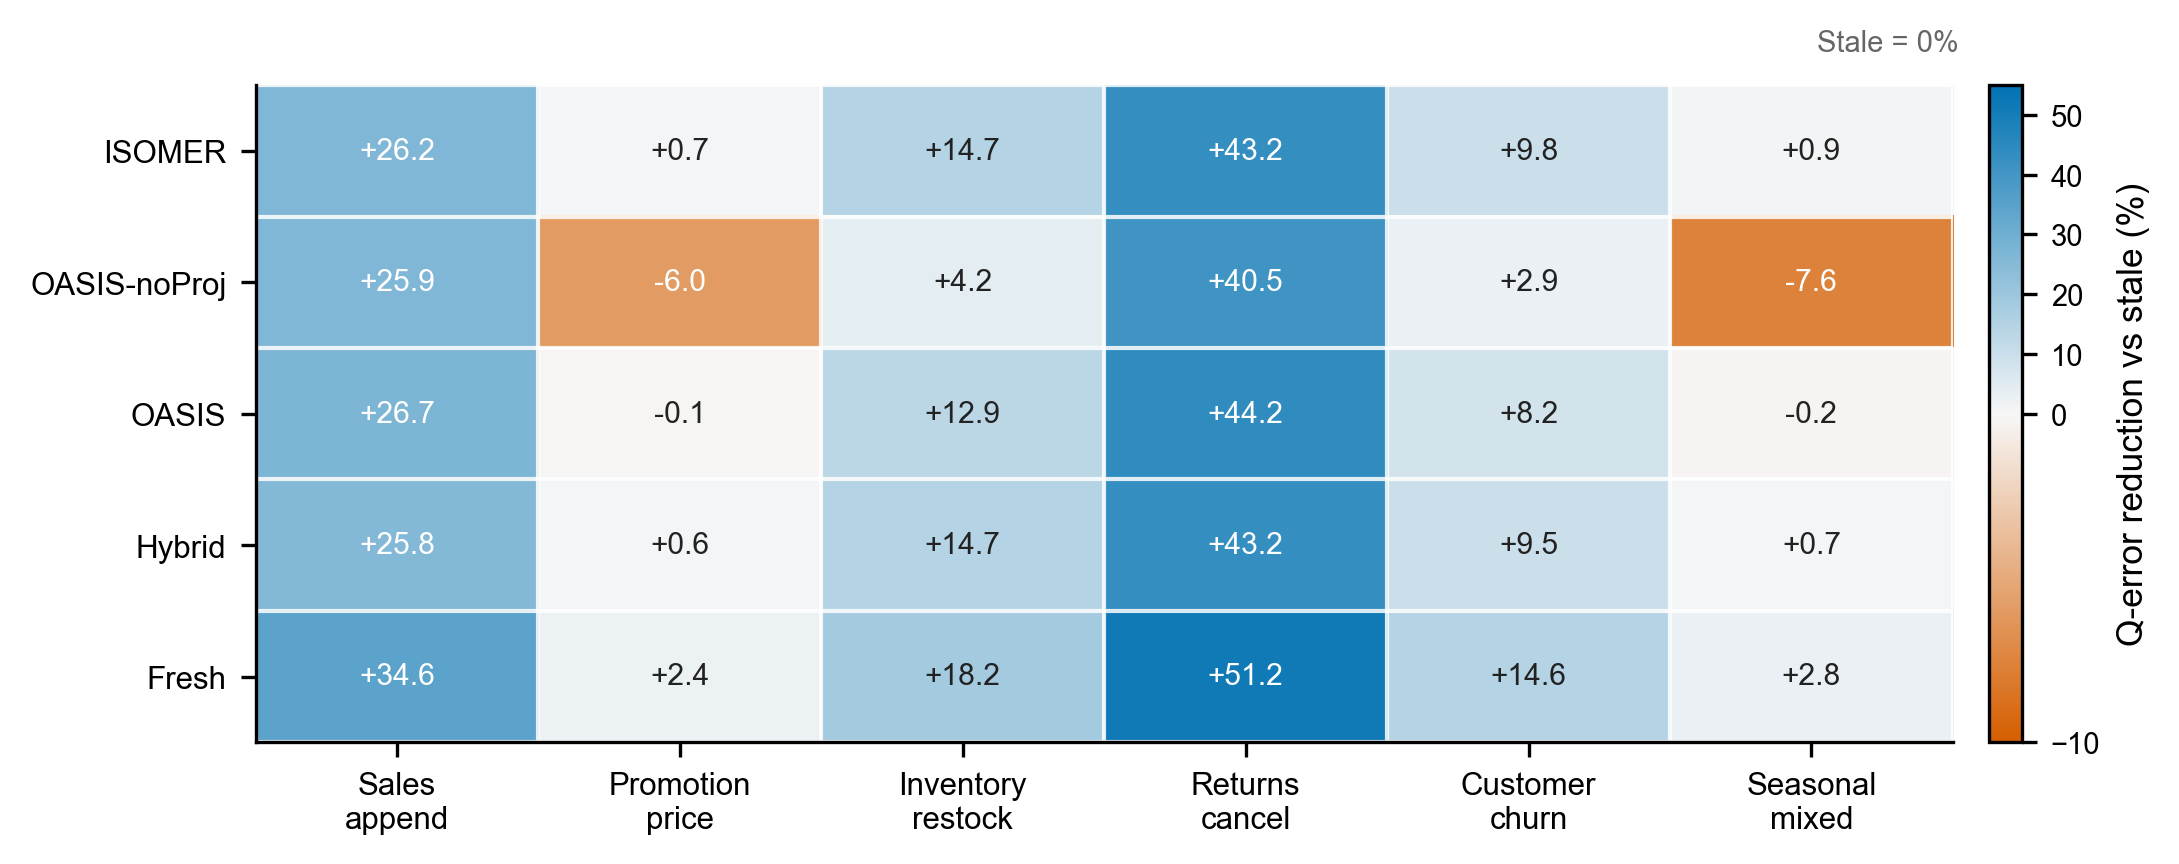
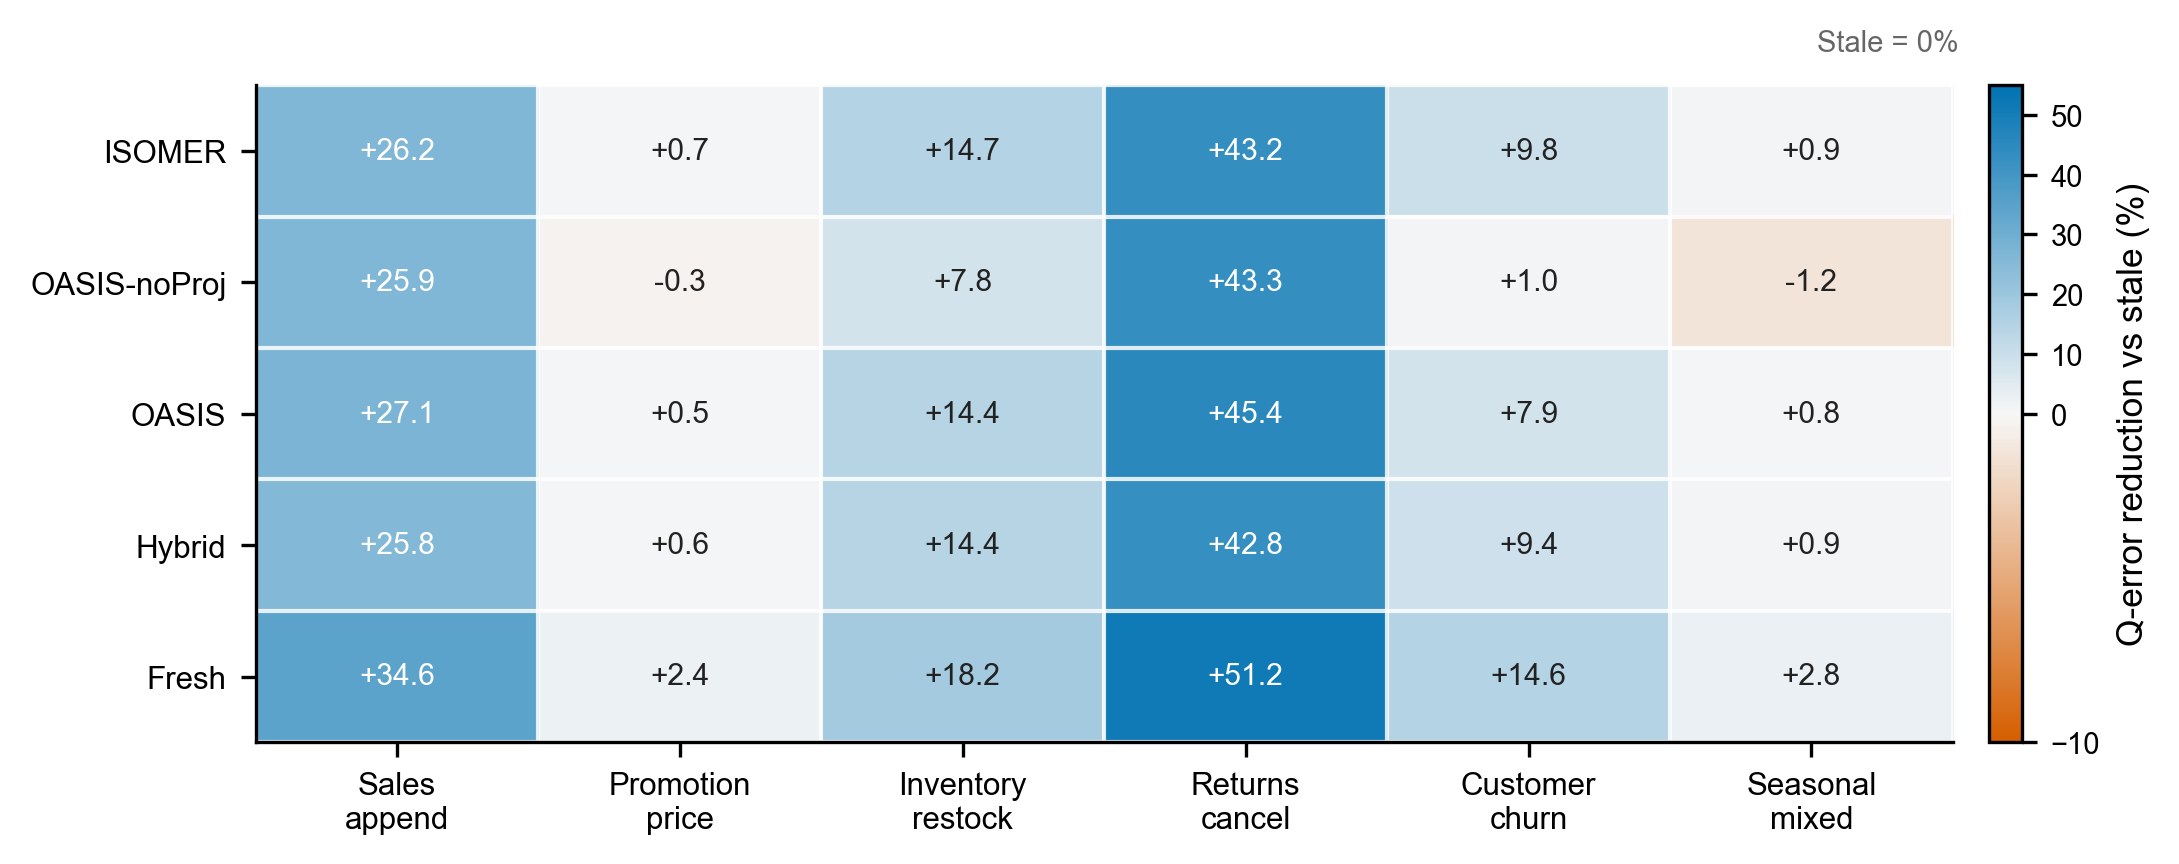
Regenerate ood/trace/single-column figures with v3 data; embed in paper
- make_paper_figures.py: single-column drift now reads proj_v3 (deployable
  feedback-projected methods: Stale/STHoles/QuickSel-H/ISOMER/OASIS/Fresh per q);
  ood and trace repointed to ood_drift_realism_v3 / trace_grounded_drift_v3.
- Embedded fig:single_column_drift, fig:ood_drift_realism, fig:trace_grounded_drift
  alongside their tables. OASIS lowest deployable across drift; projected OASIS >=
  ISOMER on OOD families while raw noProj over-extrapolates (skew ~1%); trace heatmap
  shows noProj regressions on update-heavy traces. Compiles clean (31 pp, 0 undefined).

diff --git a/paper/main_is.tex b/paper/main_is.tex
@@ -550,8 +550,19 @@ future predicates.
 \input{../experiments/results/proj_v3/table_projection_init_classical.tex}
 \endgroup
 
-Tables~\ref{tab:projection_initialization} and \ref{tab:projection_init_classical}
-give the central single-column result. Initializing the same projection from the
+\begin{figure}[t]
+  \centering
+  \includegraphics[width=.92\columnwidth]{figures/fig_single_column_drift_qerror.pdf}
+  \caption{Single-column selectivity Q-error versus drift intensity for the deployable
+  (feedback-projected) methods. Every prior is projected onto the same feedback
+  constraints; OASIS is the learned completion. OASIS is the lowest non-fresh method at
+  every drift level, and its margin over ISOMER and the self-tuning histograms widens as
+  drift grows. Geometric means from Table~\ref{tab:projection_init_classical}.}
+  \label{fig:single_column_drift}
+\end{figure}
+
+Tables~\ref{tab:projection_initialization} and \ref{tab:projection_init_classical} and
+Figure~\ref{fig:single_column_drift} give the central single-column result. Initializing the same projection from the
 learned completion lowers aggregate future-predicate Q-error from $1.523$ (ISOMER) to
 $1.328$, a $12.8\%$ reduction, and---unlike a reconstruction-trained prior---it also
 beats the classical self-tuning histograms, by $6.1\%$ over STHoles ($1.415$) and
@@ -706,7 +717,20 @@ drift.
 
 \input{../experiments/results/ood_drift_realism_v3/table_ood_drift_realism.tex}
 
-Table~\ref{tab:ood_drift_realism} shows the expected graceful degradation. The deployed
+\begin{figure}[t]
+  \centering
+  \includegraphics[width=\columnwidth]{figures/fig_ood_drift_realism.pdf}
+  \caption{Out-of-distribution drift families: percentage reduction in geometric-mean
+  selectivity Q-error relative to stale (higher is better; black ticks are the fresh
+  reference). The projected OASIS matches or edges ISOMER on every unseen family, while
+  the raw OASIS-noProj over-extrapolates---collapsing to near zero on skew evolution. The
+  prior is trained only on the domain-randomized mixture. Values from
+  Table~\ref{tab:ood_drift_realism}.}
+  \label{fig:ood_drift_realism}
+\end{figure}
+
+Table~\ref{tab:ood_drift_realism} and Figure~\ref{fig:ood_drift_realism} show the
+expected graceful degradation. The deployed
 projected and routed forms remain the best non-fresh methods, edging ISOMER on
 batch-load ($1.251$ vs $1.461$), skew ($1.171$ vs $1.182$), and outlier drift; and
 where the \emph{raw} prior over-extrapolates on an unseen family---batch-load
@@ -725,6 +749,18 @@ feedback observation.
 
 \input{../experiments/results/trace_grounded_drift_v3/table_trace_grounded_drift.tex}
 
+\begin{figure}[t]
+  \centering
+  \includegraphics[width=\columnwidth]{figures/fig_trace_grounded_drift.pdf}
+  \caption{Benchmark-inspired DML traces: percentage reduction in geometric-mean
+  selectivity Q-error relative to stale (cell value; positive is better, negative is a
+  regression below stale). The projected OASIS and the Hybrid track ISOMER and the fresh
+  reference, while the raw OASIS-noProj regresses on update-heavy traces (promotion price,
+  seasonal mixed)---the failure the projection and router are there to absorb. Values from
+  Table~\ref{tab:trace_grounded_drift}.}
+  \label{fig:trace_grounded_drift}
+\end{figure}
+
 The second uses a real public trace with a deliberately bounded claim: lacking access
 to private DBMS production logs, we use the NASA Kennedy Space Center HTTP request
 trace~\cite{itaNASAHTTP,arlitt1996web}, treating each request as an append to an event
@@ -733,8 +769,8 @@ length).
 
 \input{../experiments/results/public_trace_workload_v3/table_public_trace_workload.tex}
 
-Tables~\ref{tab:trace_grounded_drift} and \ref{tab:public_trace_workload} reinforce the
-safety story. On the DML traces the Hybrid tracks ISOMER and stays the best non-fresh
+Tables~\ref{tab:trace_grounded_drift} and \ref{tab:public_trace_workload}, with
+Figure~\ref{fig:trace_grounded_drift}, reinforce the safety story. On the DML traces the Hybrid tracks ISOMER and stays the best non-fresh
 choice. On the real NASA trace the boundary is sharper: the raw learned completion
 regresses in aggregate ($1.466$ versus stale $1.241$), and catastrophically on
 time-of-day predicates ($2.66$, worse than stale's $1.77$), because a real append

diff --git a/experiments/make_paper_figures.py b/experiments/make_paper_figures.py
@@ -122,20 +122,29 @@ def set_qerror_log_axis(ax: plt.Axes, ticks: list[float], ylim: tuple[float, flo
 
 
 def plot_single_column_drift() -> None:
+    # v3: the deployable (feedback-projected) single-column comparison, from the
+    # projection-initialization sweep. Each prior is projected onto the same feedback
+    # constraints; OASIS is the learned completion. Mirrors tab:projection_init_classical.
     rows = read_csv(
         ROOT
         / "experiments"
         / "results"
-        / "synthetic_paper_suite_rerun_20260529"
-        / "main"
-        / "summary.csv"
+        / "proj_v3"
+        / "projection_summary.csv"
     )
-    methods = ["Prior", "STHoles", "QuickSel-H", "ISOMER", "OASIS"]
-    label_map = {"Prior": "Stale", "OASIS": "OASIS-noProj"}
+    methods = ["stale", "proj_stholes", "proj_quicksel", "proj_stale", "proj_oasis"]
+    label_map = {
+        "stale": "Stale",
+        "proj_stholes": "STHoles",
+        "proj_quicksel": "QuickSel-H",
+        "proj_stale": "ISOMER",
+        "proj_oasis": "OASIS",
+    }
+    rows = [r for r in rows if r["q_mods"].lstrip("-").isdigit()]  # drop the 'all' aggregate row
     q_values = sorted({int(r["q_mods"]) for r in rows if r["method"] in methods})
     by_method = {
         method: {
-            int(r["q_mods"]): float(r["qerror_mean"])
+            int(r["q_mods"]): float(r["qerror_gm"])
             for r in rows
             if r["method"] == method
         }
@@ -169,7 +178,7 @@ def plot_ood_drift_realism() -> None:
         ROOT
         / "experiments"
         / "results"
-        / "ood_drift_realism_20260529"
+        / "ood_drift_realism_v3"
         / "summary.csv"
     )
     patterns = [
@@ -239,7 +248,7 @@ def plot_trace_grounded_drift() -> None:
         ROOT
         / "experiments"
         / "results"
-        / "trace_grounded_drift_20260529"
+        / "trace_grounded_drift_v3"
         / "summary.csv"
     )
     traces = [